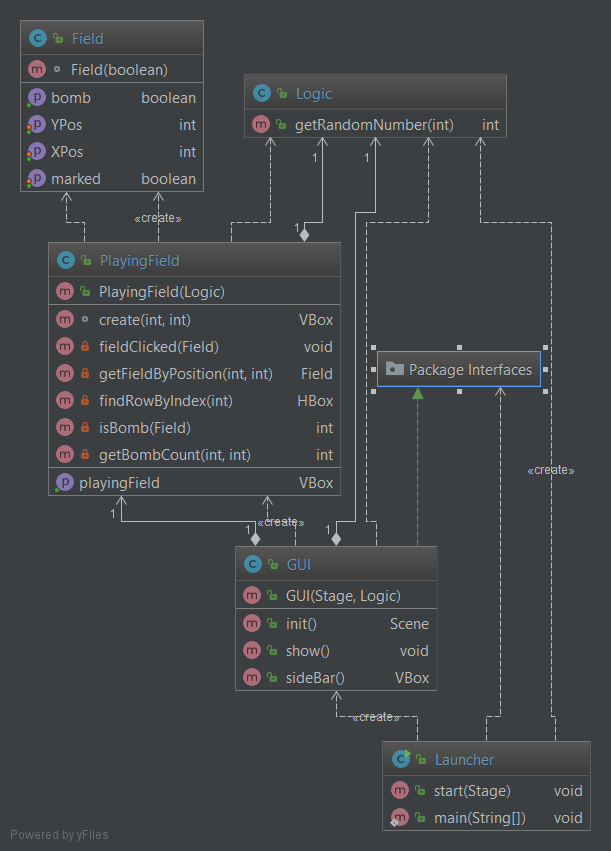
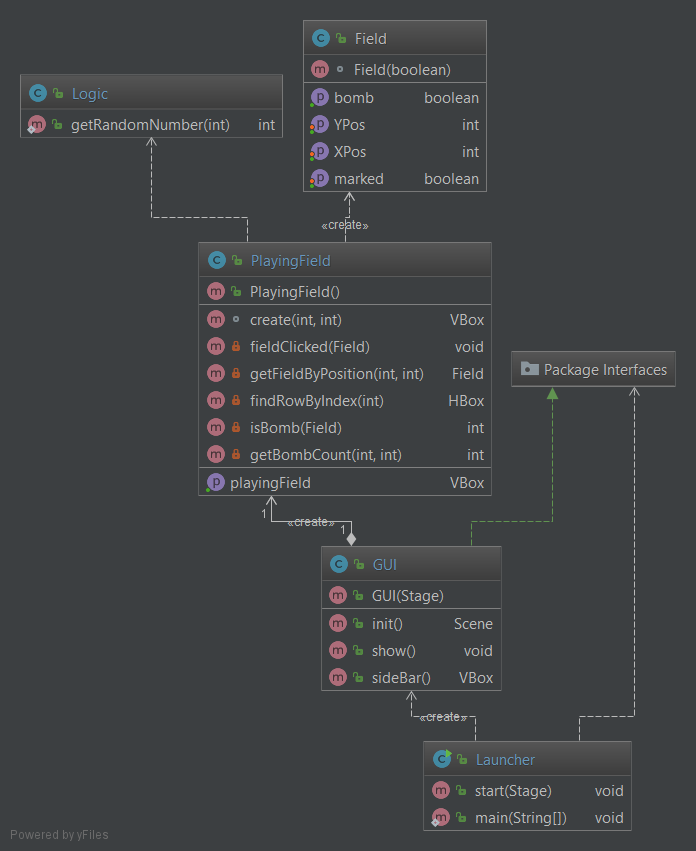
changed Logic to static

diff --git a/M226_1/src/v1/PlayingField.java b/M226_1/src/v1/PlayingField.java
@@ -7,14 +7,12 @@ import javafx.scene.layout.VBox;
 
 public class PlayingField {
 
-    Logic logic;
     VBox playingField;
     int probability = 5;
     int dimensionOfField = 7;
 
-    public PlayingField(Logic logic) {
+    public PlayingField() {
         playingField = create(dimensionOfField, probability);
-        this.logic = logic;
     }
 
     VBox create(int expansion, int chance) {
@@ -25,7 +23,7 @@ public class PlayingField {
 
             for (int b = 0; b < expansion; b++) {
                 Field f;
-                if (logic.getRandomNumber(chance) == 1) {
+                if (Logic.getRandomNumber(chance) == 1) {
                     f = new Field(true);
                 } else {
                     f = new Field(false);

diff --git a/M226_1/src/v1/GUI.java b/M226_1/src/v1/GUI.java
@@ -8,21 +8,19 @@ import javafx.stage.Stage;
 import v1.Interfaces.IGUI;
 
 public class GUI implements IGUI {
-    Logic logic;
     PlayingField playingField;
     Stage primaryStage;
 
-    public GUI(Stage primaryStage, Logic logic)
+    public GUI(Stage primaryStage)
     {
         this.primaryStage = primaryStage;
         this.primaryStage.setScene(init());
-        this.logic = logic;
     }
 
     public Scene init()
     {
         BorderPane root = new BorderPane();
-        playingField = new PlayingField(logic);
+        playingField = new PlayingField();
         root.setCenter(playingField.getPlayingField());
         root.setRight(sideBar());
         Scene scene = new Scene(root, 600, 500);

diff --git a/M226_1/src/v1/Launcher.java b/M226_1/src/v1/Launcher.java
@@ -7,7 +7,7 @@ import v1.Interfaces.IGUI;
 public class Launcher extends Application {
     @Override
     public void start(Stage primaryStage) throws Exception{
-        IGUI gui = new GUI(primaryStage, new Logic());
+        IGUI gui = new GUI(primaryStage);
         gui.show();
     }
     public static void main(String[] args) {

diff --git a/M226_1/src/v1/Logic.java b/M226_1/src/v1/Logic.java
@@ -3,7 +3,7 @@ package v1;
 import java.util.Random;
 
 public class Logic {
-    public int getRandomNumber(int max) {
+    public static int getRandomNumber(int max) {
         Random rnd = new Random();
         return rnd.nextInt(max) + 1;
     }
